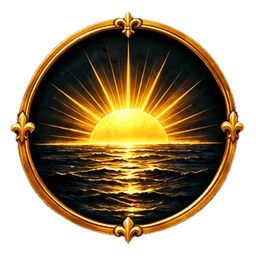
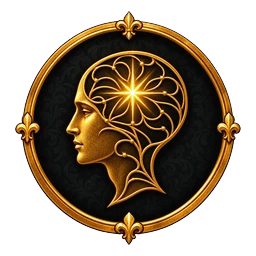
v464: nuevo icono de Mente Despierta; tarjetas de Contrarreloj y Cálculo mental con «preguntas» y «operaciones»
Claude-Session: https://claude.ai/code/session_01BSRWCop9etXSSJ7o4GBwpZ

diff --git a/index.html b/index.html
@@ -49,21 +49,21 @@
 <!-- Tipografía: Playfair Display para el "display" institucional (nombre de la
      app / títulos), Inter para toda la interfaz funcional. Alojadas en la propia app
      (styles/fonts.css, assets/fonts/): funcionan sin conexión y no dependen de Google. -->
-<link rel="stylesheet" href="styles/fonts.css?v=462">
+<link rel="stylesheet" href="styles/fonts.css?v=464">
 <link rel="preload" href="assets/fonts/inter-latin.woff" as="font" type="font/woff" crossorigin>
-<link rel="stylesheet" href="styles/main.css?v=462">
+<link rel="stylesheet" href="styles/main.css?v=464">
 <!-- v1.4: estilos de la capa online (cuenta, migración, ranking). Solo clases .seq-* -->
-<link rel="stylesheet" href="styles/online.css?v=462">
-<link rel="stylesheet" href="styles/results-frame.css?v=462">
-<link rel="stylesheet" href="styles/visual-2-3.css?v=462">
-<link rel="stylesheet" href="styles/light-refresh.css?v=462">
-<link rel="stylesheet" href="styles/encargos.css?v=462">
-<link rel="stylesheet" href="styles/encargos-intro.css?v=462">
-<link rel="stylesheet" href="styles/duel-intro.css?v=462">
-<link rel="stylesheet" href="styles/sir-events.css?v=462">
-<link rel="stylesheet" href="styles/reward-toast.css?v=462">
-<link rel="stylesheet" href="styles/theme.css?v=462">
-<link rel="stylesheet" href="styles/privacy.css?v=462">
+<link rel="stylesheet" href="styles/online.css?v=464">
+<link rel="stylesheet" href="styles/results-frame.css?v=464">
+<link rel="stylesheet" href="styles/visual-2-3.css?v=464">
+<link rel="stylesheet" href="styles/light-refresh.css?v=464">
+<link rel="stylesheet" href="styles/encargos.css?v=464">
+<link rel="stylesheet" href="styles/encargos-intro.css?v=464">
+<link rel="stylesheet" href="styles/duel-intro.css?v=464">
+<link rel="stylesheet" href="styles/sir-events.css?v=464">
+<link rel="stylesheet" href="styles/reward-toast.css?v=464">
+<link rel="stylesheet" href="styles/theme.css?v=464">
+<link rel="stylesheet" href="styles/privacy.css?v=464">
 
 </head>
 <body class="on-home">
@@ -538,7 +538,7 @@ try {
             <span class="mode-lock-badge" id="lock-badge-timetrial" aria-label="Bloqueado" title="Modo bloqueado"></span>
             <div class="mode-card-icon has-img" aria-hidden="true"><img class="mode-img" src="assets/modes/contrarreloj.webp" alt="" draggable="false"></div>
             <h3>Contrarreloj</h3>
-            <p id="mode-desc-timetrial">Empiezas con 60 s: cada acierto suma 3 s y cada fallo los resta.</p>
+            <p id="mode-desc-timetrial">Responde todas las preguntas que puedas en 60 s. Cada acierto suma 3 s; cada fallo, los resta.</p>
             <p class="mode-req" id="mode-req-timetrial"></p>
             <p class="mode-subtitle mode-status-open">✓ DISPONIBLE</p>
           </div>
@@ -547,7 +547,7 @@ try {
             <span class="mode-lock-badge" id="lock-badge-mental_calc" aria-label="Bloqueado" title="Modo bloqueado"></span>
             <div class="mode-card-icon has-img" aria-hidden="true"><img class="mode-img" src="assets/modes/calculo.webp" alt="" draggable="false"></div>
             <h3>Cálculo mental</h3>
-            <p id="mode-desc-mental-calc">Turbo, contra el reloj, o Fondo, con una sola vida. Tú eliges cómo sufrir.</p>
+            <p id="mode-desc-mental-calc">Operaciones contra el reloj (Turbo) o con una sola vida (Fondo). Tú eliges cómo sufrir.</p>
             <p class="mode-req" id="mode-req-mental_calc"></p>
             <p class="mode-subtitle mode-status-open">✓ DISPONIBLE</p>
           </div>
@@ -1150,62 +1150,62 @@ try {
 <!-- Fase 2: datos y constantes extraidos a modulos, cargados como scripts
      clasicos (no ES Modules) para conservar el scope global compartido con
      el script principal, sin convertir todavia la app a ES Modules. -->
-<script src="src/data/ui-maps.js?v=462"></script>
-<script src="src/data/questions.js?v=462"></script>
-<script src="src/data/questions-retired.js?v=462"></script>
-<script src="src/data/phrases.js?v=462"></script>
-<script src="src/data/duel-phrases.js?v=462"></script>
-<script src="src/data/rivalry-phrases.js?v=462"></script>
-<script src="src/utils/rivalry.js?v=462"></script>
-<script src="src/data/lucidez.js?v=462"></script>
-<script src="src/data/medals.js?v=462"></script>
+<script src="src/data/ui-maps.js?v=464"></script>
+<script src="src/data/questions.js?v=464"></script>
+<script src="src/data/questions-retired.js?v=464"></script>
+<script src="src/data/phrases.js?v=464"></script>
+<script src="src/data/duel-phrases.js?v=464"></script>
+<script src="src/data/rivalry-phrases.js?v=464"></script>
+<script src="src/utils/rivalry.js?v=464"></script>
+<script src="src/data/lucidez.js?v=464"></script>
+<script src="src/data/medals.js?v=464"></script>
 <!-- Prompt 3 — Fase C: sistema de avatares compartido (window.SEQAvatars). Debe
      cargarse antes de src/online/online.js y src/online/duels.js: ambos lo
      consumen en vez de mantener cada uno su propia copia de la lista. -->
-<script src="src/data/avatars.js?v=462"></script>
-<script src="src/share/share-card.js?v=462"></script>
+<script src="src/data/avatars.js?v=464"></script>
+<script src="src/share/share-card.js?v=464"></script>
 
 <!-- Fase 3 (Lote 3A): motor de coincidencia de respuestas extraido a
      src/utils/matching.js, mismo criterio que la Fase 2 (script clasico,
      sin ES Modules todavia). -->
-<script src="src/utils/matching.js?v=462"></script>
-<script src="src/utils/review-batch.js?v=462"></script>
-<script src="src/utils/records-reset.js?v=462"></script>
-<script src="src/utils/answer-alias.js?v=462"></script>
-<script src="src/utils/lucidez-select.js?v=462"></script>
-<script src="src/state/lucidez-bag.js?v=462"></script>
-<script src="src/state/timetrial-bag.js?v=462"></script>
-<script src="src/utils/encargos-core.js?v=462"></script>
-<script src="src/utils/encargos-progress.js?v=462"></script>
-<script src="src/state/encargos.js?v=462"></script>
-<script src="src/data/encargos-phrases.js?v=462"></script>
-<script src="src/ui/encargos-ui.js?v=462"></script>
-<script src="src/data/named-phrases.js?v=462"></script>
-<script src="src/utils/named-phrases.js?v=462"></script>
-<script src="src/utils/encargos-intro-core.js?v=462"></script>
-<script src="src/data/encargos-intro-phrases.js?v=462"></script>
-<script src="src/ui/encargos-intro.js?v=462"></script>
-<script src="src/ui/lucidez-unlock.js?v=462"></script>
-<script src="src/ui/duel-intro.js?v=462"></script>
-<script src="src/data/home-quotes.js?v=462"></script>
-<script src="src/ui/home-quote.js?v=462"></script>
-<script src="src/utils/sir-events.js?v=462"></script>
-<script src="src/ui/sir-events-ui.js?v=462"></script>
-<script src="src/state/sir-events.js?v=462"></script>
-<script src="src/utils/sudden-progression.js?v=462"></script>
-<script src="src/utils/mental-calc.js?v=462"></script>
-<script src="src/utils/mental-classic.js?v=462"></script>
-<script src="src/utils/mental-tips.js?v=462"></script>
-<script src="src/ui/mental-classic-ui.js?v=462"></script>
-<script src="src/ui/mental-menu.js?v=462"></script>
-<script src="src/ui/level-up.js?v=462"></script>
+<script src="src/utils/matching.js?v=464"></script>
+<script src="src/utils/review-batch.js?v=464"></script>
+<script src="src/utils/records-reset.js?v=464"></script>
+<script src="src/utils/answer-alias.js?v=464"></script>
+<script src="src/utils/lucidez-select.js?v=464"></script>
+<script src="src/state/lucidez-bag.js?v=464"></script>
+<script src="src/state/timetrial-bag.js?v=464"></script>
+<script src="src/utils/encargos-core.js?v=464"></script>
+<script src="src/utils/encargos-progress.js?v=464"></script>
+<script src="src/state/encargos.js?v=464"></script>
+<script src="src/data/encargos-phrases.js?v=464"></script>
+<script src="src/ui/encargos-ui.js?v=464"></script>
+<script src="src/data/named-phrases.js?v=464"></script>
+<script src="src/utils/named-phrases.js?v=464"></script>
+<script src="src/utils/encargos-intro-core.js?v=464"></script>
+<script src="src/data/encargos-intro-phrases.js?v=464"></script>
+<script src="src/ui/encargos-intro.js?v=464"></script>
+<script src="src/ui/lucidez-unlock.js?v=464"></script>
+<script src="src/ui/duel-intro.js?v=464"></script>
+<script src="src/data/home-quotes.js?v=464"></script>
+<script src="src/ui/home-quote.js?v=464"></script>
+<script src="src/utils/sir-events.js?v=464"></script>
+<script src="src/ui/sir-events-ui.js?v=464"></script>
+<script src="src/state/sir-events.js?v=464"></script>
+<script src="src/utils/sudden-progression.js?v=464"></script>
+<script src="src/utils/mental-calc.js?v=464"></script>
+<script src="src/utils/mental-classic.js?v=464"></script>
+<script src="src/utils/mental-tips.js?v=464"></script>
+<script src="src/ui/mental-classic-ui.js?v=464"></script>
+<script src="src/ui/mental-menu.js?v=464"></script>
+<script src="src/ui/level-up.js?v=464"></script>
 
 <!-- Fase 3 (Lote 3B): nucleo algoritmico de Duelo extraido a
      src/utils/duel.js, mismo criterio que el resto (script clasico, sin
      ES Modules todavia). Las dependencias compartidas con otros modos
      (arrangeStandardBlock, generateLucidezMentalOp)
      permanecen en este script principal, sin moverse en este lote. -->
-<script src="src/utils/duel.js?v=462"></script>
+<script src="src/utils/duel.js?v=464"></script>
 
 <!-- Fase 3 (Lote 3C): defaults, migracion y saneamiento del Store
      extraidos a src/utils/store.js, mismo criterio que el resto (script
@@ -1217,60 +1217,60 @@ try {
      getLevelData) y las 8 funciones de persistencia real (loadStore,
      saveStore, exportProgress...) permanecen en este script principal,
      sin moverse en este lote. -->
-<script src="src/utils/store.js?v=462"></script>
+<script src="src/utils/store.js?v=464"></script>
 
 <!-- Fase 4B: fachada de estado de solo lectura (getStore/getCurrentGame),
      mismo criterio que el resto (script clasico, sin ES Modules todavia).
      No copia, no transforma, no cachea. Ver src/state/read-facade.js. -->
-<script src="src/state/read-facade.js?v=462"></script>
+<script src="src/state/read-facade.js?v=464"></script>
 
-<script src="src/utils/streak-xp.js?v=462"></script>
+<script src="src/utils/streak-xp.js?v=464"></script>
 <!-- Fase 4C: helpers minimos de escritura (pushCapped, resetStreak) para
      eliminar 2 duplicaciones reales concretas -- no un sistema de
      mutaciones. Ver src/state/write-helpers.js y CHANGELOG_FASE4C.md. -->
-<script src="src/state/write-helpers.js?v=462"></script>
+<script src="src/state/write-helpers.js?v=464"></script>
 
 <!-- v1.4: capa online (cuenta Google, sincronización, migración, ranking).
      config.js es PÚBLICO (URL del Worker + Client ID de Google); si está
      vacío, la capa online queda desactivada y la app es idéntica a la v1.3.
      online.js solo usa el store/funciones del juego en tiempo de ejecución. -->
-<script src="src/ui/install-app.js?v=462"></script>
-<script src="src/share/invite.js?v=462"></script>
-<script src="src/ui/reward-toast.js?v=462"></script>
-<script src="src/ui/privacy.js?v=462"></script>
-<script src="src/ui/a11y.js?v=462"></script>
-<script src="src/ui/back-nav.js?v=462"></script>
-<script src="src/ui/game-fx.js?v=462"></script>
-<script src="src/ui/last-life.js?v=462"></script>
-<script src="src/ui/hitos.js?v=462"></script>
-<script src="src/ui/achievements.js?v=462"></script>
-<script src="src/ui/stats-extra.js?v=462"></script>
-<script src="src/ui/name-prompt.js?v=462"></script>
-<script src="src/ui/intro.js?v=462"></script>
-<script src="src/ui/mode-badges.js?v=462"></script>
-<script src="src/ui/lucidez-ui.js?v=462"></script>
-<script src="src/ui/sabias.js?v=462"></script>
-<script src="src/ui/icons.js?v=462"></script>
-<script src="src/online/config.js?v=462"></script>
+<script src="src/ui/install-app.js?v=464"></script>
+<script src="src/share/invite.js?v=464"></script>
+<script src="src/ui/reward-toast.js?v=464"></script>
+<script src="src/ui/privacy.js?v=464"></script>
+<script src="src/ui/a11y.js?v=464"></script>
+<script src="src/ui/back-nav.js?v=464"></script>
+<script src="src/ui/game-fx.js?v=464"></script>
+<script src="src/ui/last-life.js?v=464"></script>
+<script src="src/ui/hitos.js?v=464"></script>
+<script src="src/ui/achievements.js?v=464"></script>
+<script src="src/ui/stats-extra.js?v=464"></script>
+<script src="src/ui/name-prompt.js?v=464"></script>
+<script src="src/ui/intro.js?v=464"></script>
+<script src="src/ui/mode-badges.js?v=464"></script>
+<script src="src/ui/lucidez-ui.js?v=464"></script>
+<script src="src/ui/sabias.js?v=464"></script>
+<script src="src/ui/icons.js?v=464"></script>
+<script src="src/online/config.js?v=464"></script>
 <!-- v2.0: combinación de datos de jugador (mismo código que el servidor) y su sincronización -->
-<script src="src/utils/sync-merge.js?v=462"></script>
-<script src="src/online/data-sync.js?v=462"></script>
-<script src="src/online/online.js?v=462"></script>
+<script src="src/utils/sync-merge.js?v=464"></script>
+<script src="src/online/data-sync.js?v=464"></script>
+<script src="src/online/online.js?v=464"></script>
 <!-- v1.5: Amigos, Duelo online y Retos. El servidor decide preguntas, tiempo, aciertos y ganador. -->
-<script src="src/state/result-heard.js?v=462"></script>
-<script src="src/state/multi-result.js?v=462"></script>
-<script src="src/online/reto-fx.js?v=462"></script>
-<script src="src/online/duels.js?v=462"></script>
+<script src="src/state/result-heard.js?v=464"></script>
+<script src="src/state/multi-result.js?v=464"></script>
+<script src="src/online/reto-fx.js?v=464"></script>
+<script src="src/online/duels.js?v=464"></script>
 <!-- 2.1: Duelo por apuestas, ELO PvP, Rankings y estadísticas de Duelos (solo presentación; decide el servidor) -->
-<script src="src/online/duels-v21.js?v=462"></script>
-<script src="src/online/multi-duels.js?v=462"></script>
-<script src="src/online/multi-stakes.js?v=462"></script>
+<script src="src/online/duels-v21.js?v=464"></script>
+<script src="src/online/multi-duels.js?v=464"></script>
+<script src="src/online/multi-stakes.js?v=464"></script>
 <!-- 2.3: ficha pública de un jugador (resumen, récords, PvP y solicitud de amistad) -->
-<script src="src/online/player-profile.js?v=462"></script>
-<script src="src/online/inbox.js?v=462"></script>
-<script src="src/online/push.js?v=462"></script>
+<script src="src/online/player-profile.js?v=464"></script>
+<script src="src/online/inbox.js?v=464"></script>
+<script src="src/online/push.js?v=464"></script>
 <!-- Audio: sonidos del juego (src/audio/audio.js) -->
-<script src="src/audio/audio.js?v=462"></script>
+<script src="src/audio/audio.js?v=464"></script>
 
 <script>
 function closeWelcomeModal() {
@@ -3010,13 +3010,13 @@ const LOCKABLE_MODE_UI = [
   },
   {
     cardId: 'mode-card-timetrial', badgeId: 'lock-badge-timetrial', descId: 'mode-desc-timetrial', reqId: 'mode-req-timetrial',
-    baseDesc: 'Empiezas con 60 s: cada acierto suma 3 s y cada fallo los resta.',
+    baseDesc: 'Responde todas las preguntas que puedas en 60 s. Cada acierto suma 3 s; cada fallo, los resta.',
     reqText: () => 'Requiere Nivel 10',
     isUnlocked: s => getLevelData(s.xp) >= 10
   },
   {
     cardId: 'mode-card-mental_calc', badgeId: 'lock-badge-mental_calc', descId: 'mode-desc-mental-calc', reqId: 'mode-req-mental_calc',
-    baseDesc: 'Turbo, contra el reloj, o Fondo, con una sola vida. Tú eliges cómo sufrir.',
+    baseDesc: 'Operaciones contra el reloj (Turbo) o con una sola vida (Fondo). Tú eliges cómo sufrir.',
     reqText: () => 'Requiere el logro «Velocidad Mental»',
     isUnlocked: s => (s.unlockedMedals || []).includes('tt_15')
   },
@@ -7498,6 +7498,6 @@ window.addEventListener('appinstalled', () => {
   hidePwaHint();
 });
 </script>
-<script src="src/ui/resume-clock.js?v=462"></script>
+<script src="src/ui/resume-clock.js?v=464"></script>
 </body>
 </html>

diff --git a/sw.js b/sw.js
@@ -38,7 +38,7 @@
 // styles/main.css, src/data/medals.js, src/utils/store.js y src/online/duels.js (ya en el shell).
 // 2.0 (Prompt 5, tarjeta de compartir): subido de 10 a 11; nuevo src/share/share-card.js
 // (añadido al shell) y cambiaron index.html y src/online/duels.js.
-const CACHE_VERSION = 462;
+const CACHE_VERSION = 464;
 // Dos cachés (ver install/fetch más abajo):
 //  · CACHE_NAME  (versionada): index.html, CSS, JS, manifest e iconos. Es poco y es imprescindible: si no se puede guardar, la
 //    versión nueva no se instala y se queda la anterior.
@@ -599,7 +599,7 @@ const ASSET_REVS = {
   './assets/logros/limpieza_general.webp': 'd9d69359',
   './assets/logros/lucidez_absoluta.webp': '6fe28412',
   './assets/logros/lucidez_conexiones_imposibles.webp': '8539b929',
-  './assets/logros/lucidez_mente_despierta.webp': '19d64b82',
+  './assets/logros/lucidez_mente_despierta.webp': '49b755b5',
   './assets/logros/master_10.webp': '321f8d97',
   './assets/logros/master_100.webp': '6720bc63',
   './assets/logros/master_200.webp': '6a4b5d80',
